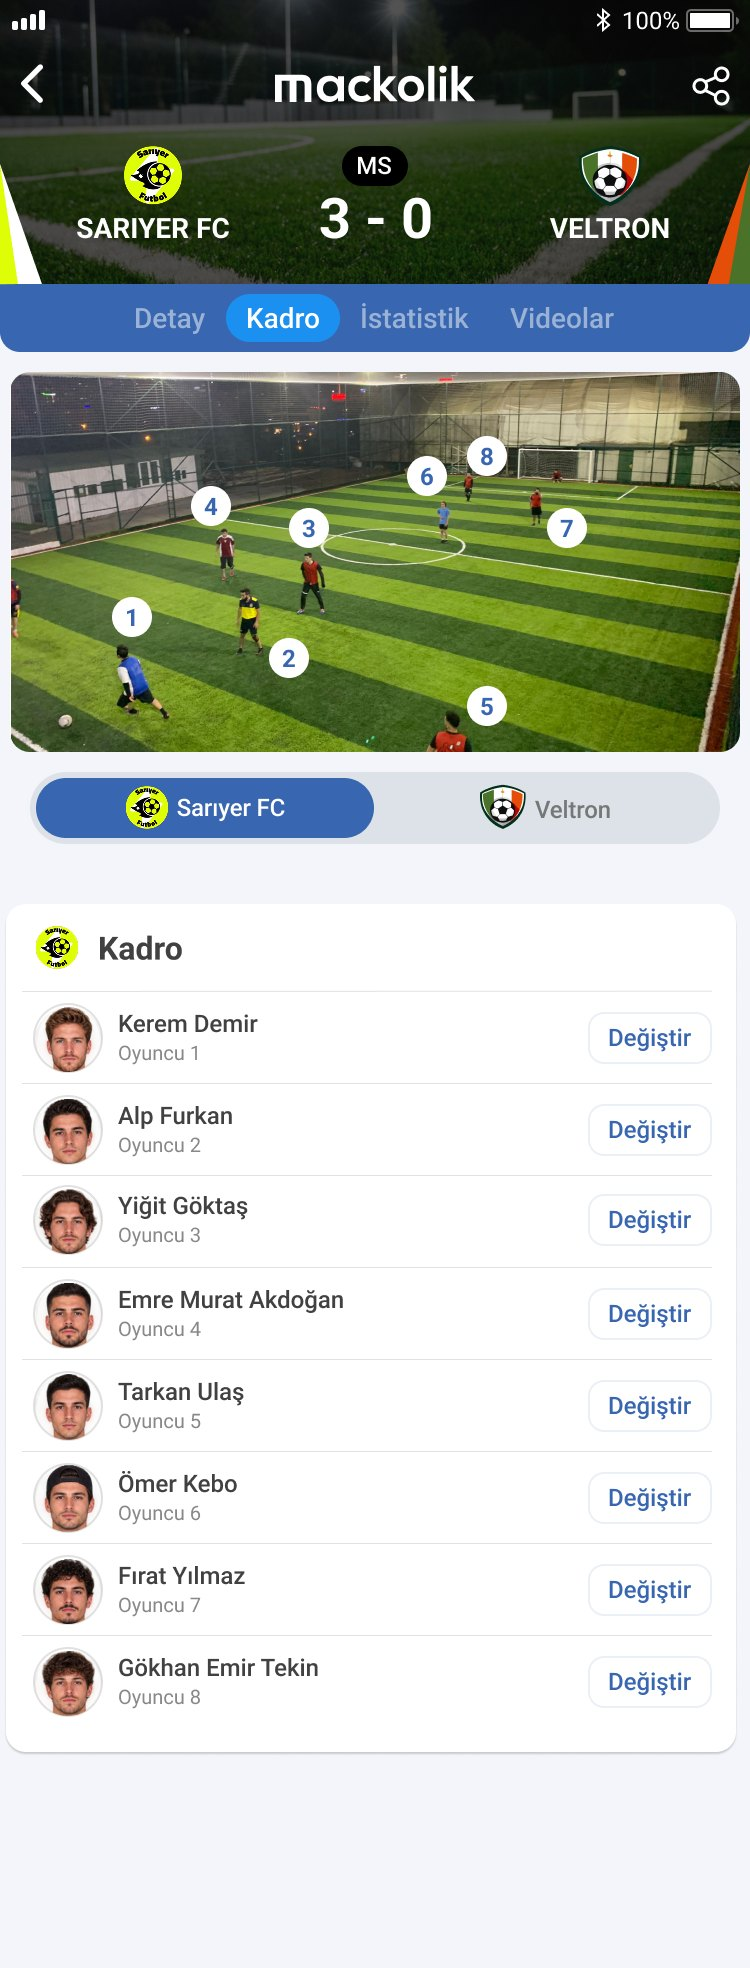
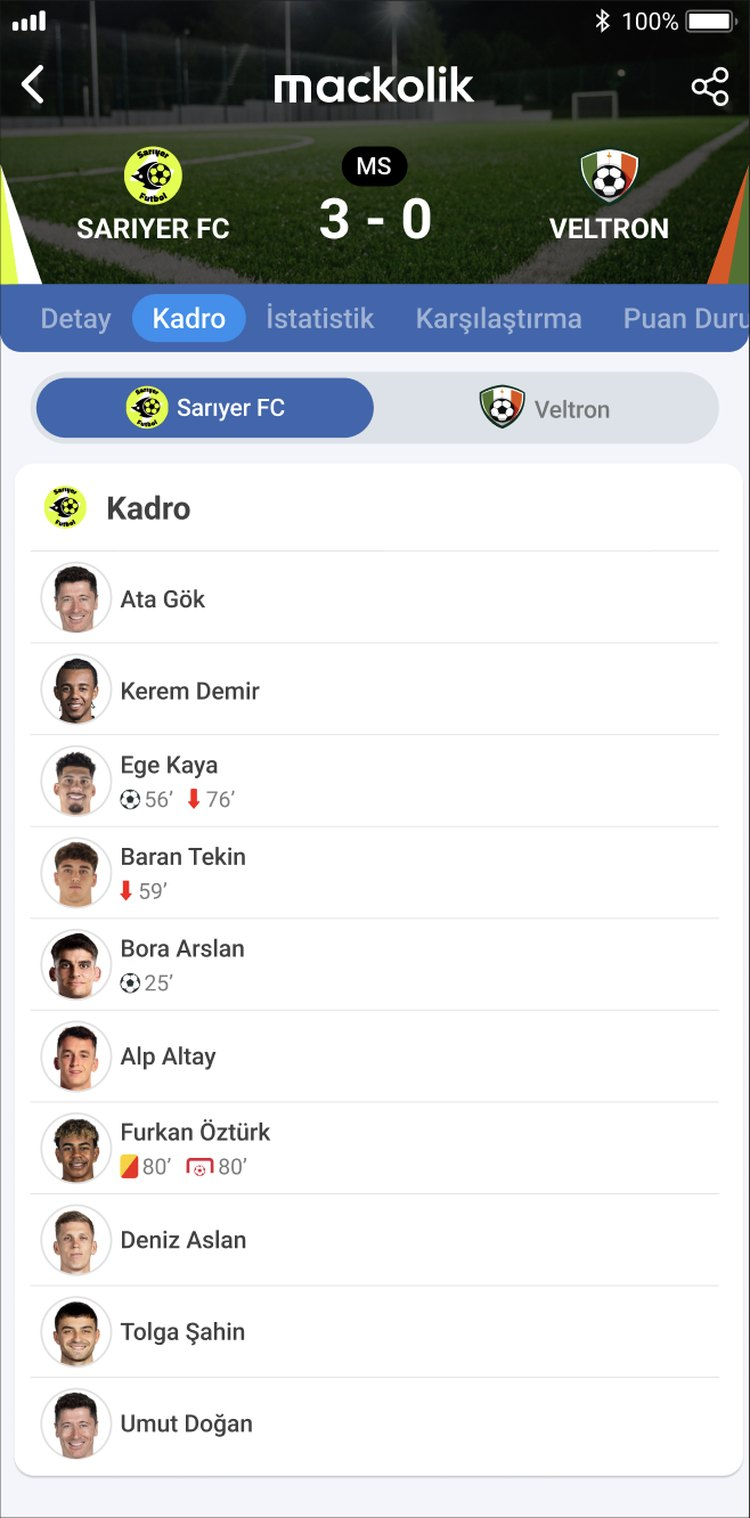
fix: 05 Kadro adımı Figma'daki 'Maç Detay - Canlı Maç' kadro ekranıyla değişti

diff --git a/public/static-mahalle.html b/public/static-mahalle.html
@@ -321,7 +321,7 @@ p { margin: 0; }
           <div><span class="step-no">04 · Sahiplen</span><h3>Takımını sahiplen.</h3><p>Oynadığın maçta takımlar henüz sahipsiz. Takım kaptanları takımlarını sahiplendiğinde karşılaşma Mackolik’te yayınlanır.</p></div>
         </li>
         <li class="step">
-          <div class="phone"><div class="screen"><img src="https://www.mackolik.com/static-files/mahalle/media/step-05-kadro.jpg" width="750" height="1968" loading="lazy" alt="Kadro sekmesi: saha fotoğrafında numaralı oyuncular ve kadro listesi"></div></div>
+          <div class="phone"><div class="screen"><img src="https://www.mackolik.com/static-files/mahalle/media/step-05-kadro.jpg" width="750" height="1518" loading="lazy" alt="Maç detayı, Kadro sekmesi: maçta oynayan oyuncular, goller, kartlar ve oyuncu değişiklikleri"></div></div>
           <div><span class="step-no">05 · Kadro</span><h3>Kadronu tanımla.</h3><p>Takım kaptanları, maçta oynayan futbolcuları Kadro sekmesine eklediğinde, karşılaşma bu oyuncuların profillerine işlenir.</p></div>
         </li>
         <li class="step">
